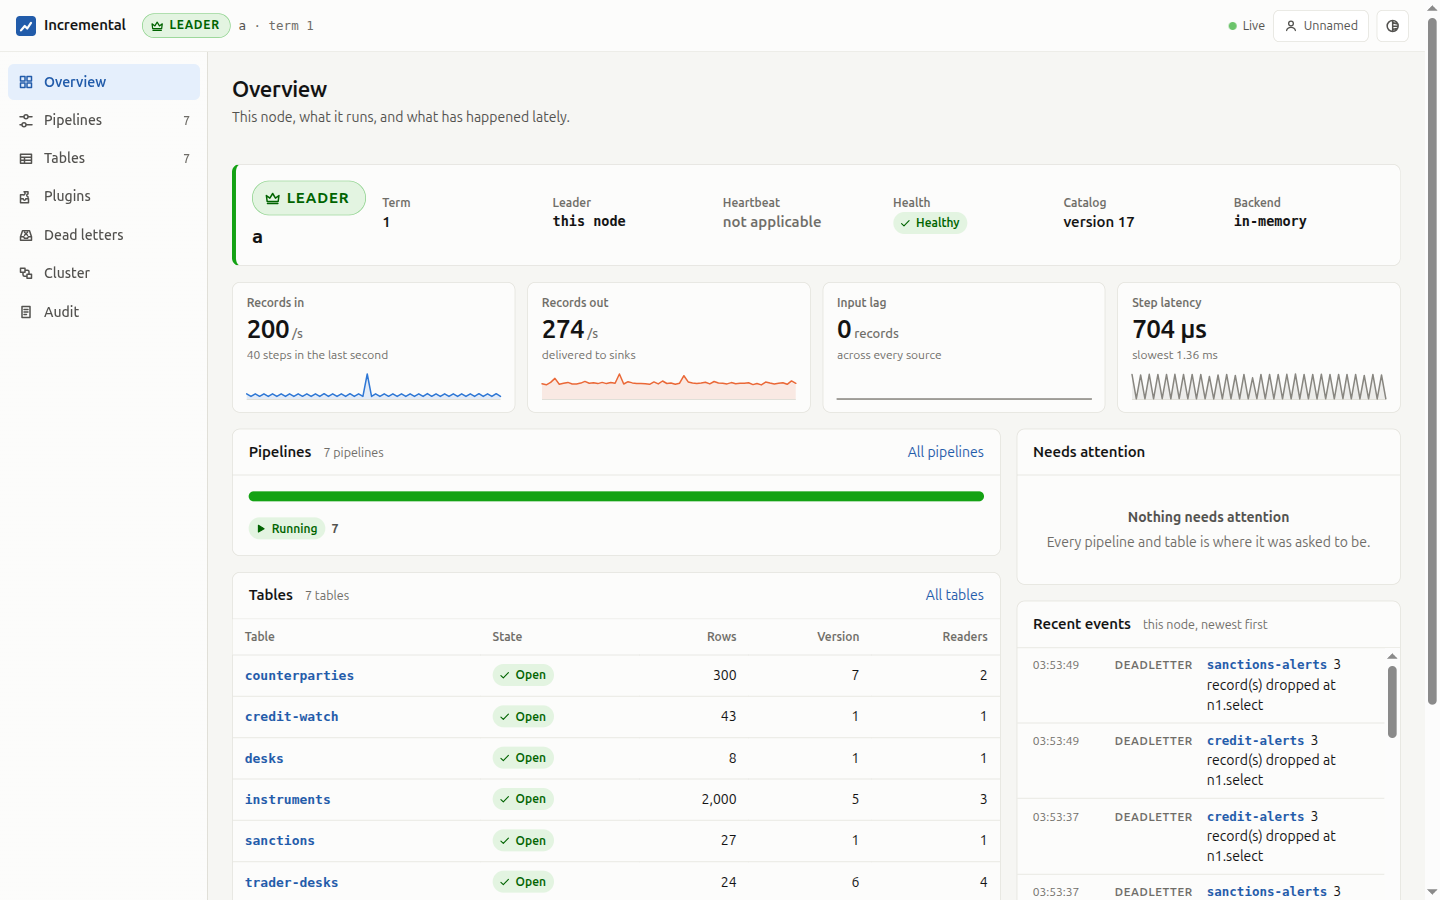
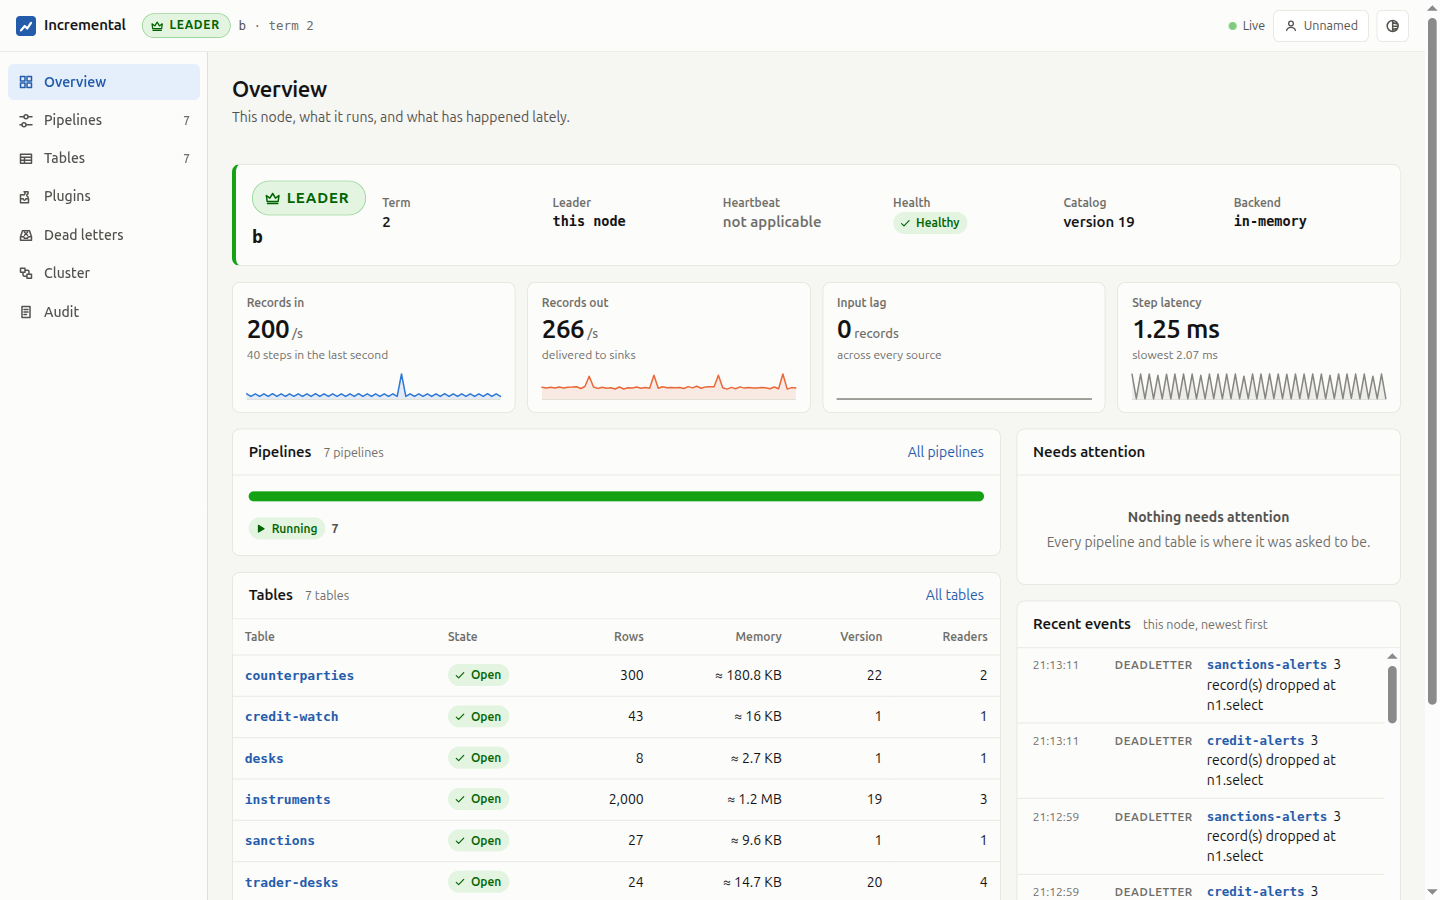
Hosts stop on SIGTERM with two supervised in-memory nodes; screenshots retaken
The AdminHost waited only for Ctrl+C once its nodes were supervised in-process, and
a SIGTERM left it running. Both it and the example now take SIGTERM as the stop
request. Retaken: the overview, a pipeline and a standby's cluster page (admin/) and
the guide's overview and pipeline.

diff --git a/examples/Incremental.EnrichmentService/Program.cs b/examples/Incremental.EnrichmentService/Program.cs
@@ -143,7 +143,11 @@ try
         interrupted.TrySetResult();
     };
     using var terminated = System.Runtime.InteropServices.PosixSignalRegistration.Create(
-        System.Runtime.InteropServices.PosixSignal.SIGTERM, _ => interrupted.TrySetResult());
+        System.Runtime.InteropServices.PosixSignal.SIGTERM, context =>
+        {
+            context.Cancel = true;
+            interrupted.TrySetResult();
+        });
     // A node that loses leadership stops its host (exit code 3 fenced, 4 resigned, 5 cannot
     // lead); a process supervisor starts it again and it comes back as the standby. Two
     // nodes in memory are supervised in this process instead, and only a stop request ends it.

diff --git a/tests/Incremental.Service.AdminHost/Program.cs b/tests/Incremental.Service.AdminHost/Program.cs
@@ -50,6 +50,11 @@ Console.CancelKeyPress += (_, e) =>
     stopped.TrySetResult();
 };
 AppDomain.CurrentDomain.ProcessExit += (_, _) => stopped.TrySetResult();
+using var terminated = System.Runtime.InteropServices.PosixSignalRegistration.Create(System.Runtime.InteropServices.PosixSignal.SIGTERM, context =>
+{
+    context.Cancel = true;
+    stopped.TrySetResult();
+});
 // A node of two that is replaced or resigns is started again by the host; one node alone
 // that stops ends the program.
 await (host.Nodes.Count > 1 ? stopped.Task : Task.WhenAny(stopped.Task, Task.WhenAny(host.Nodes.Select(n => n.App.WaitForShutdownAsync()))));
